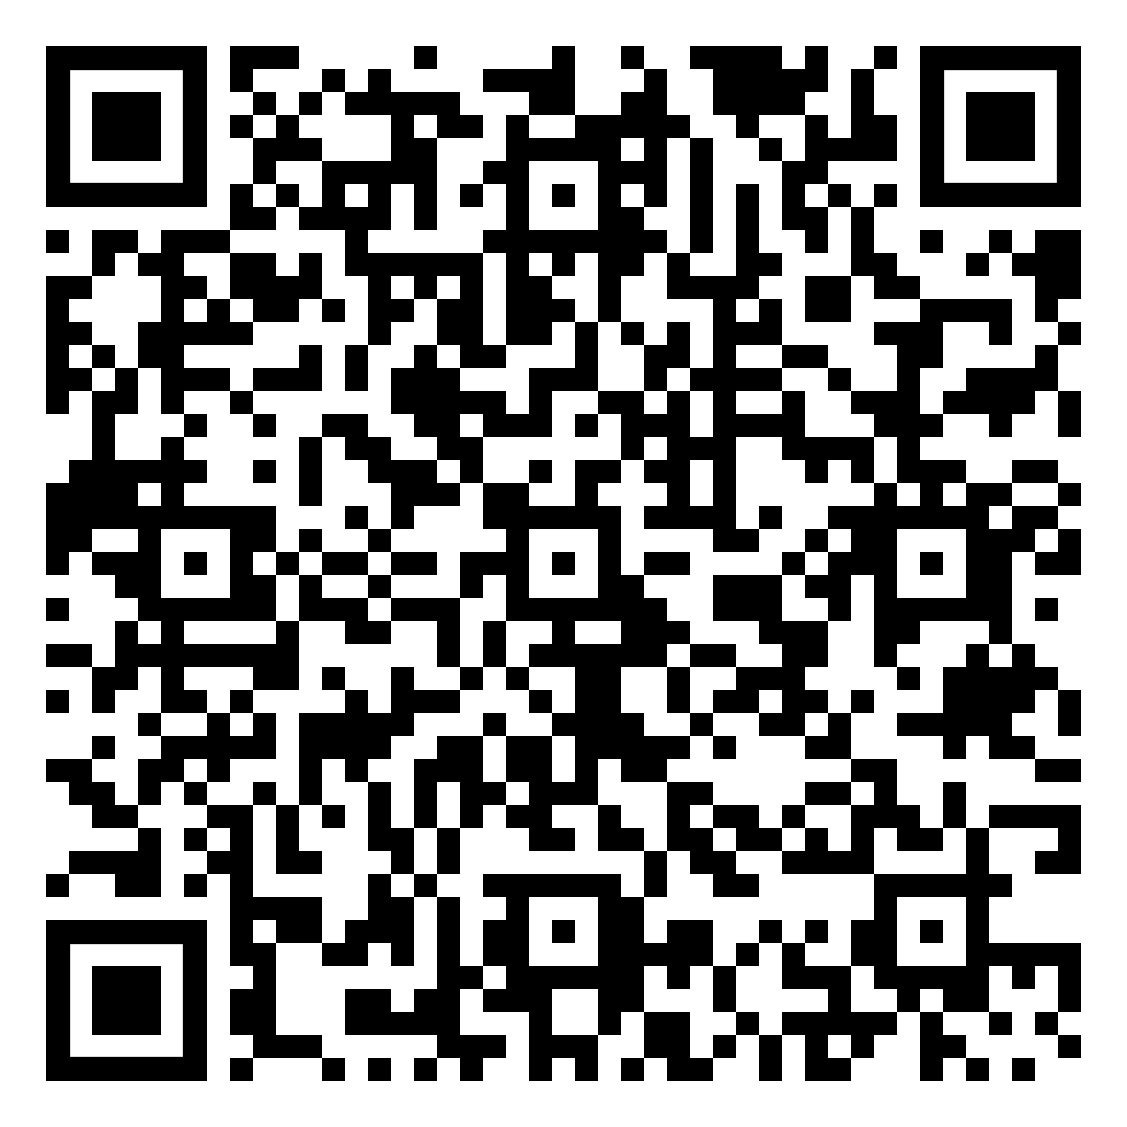
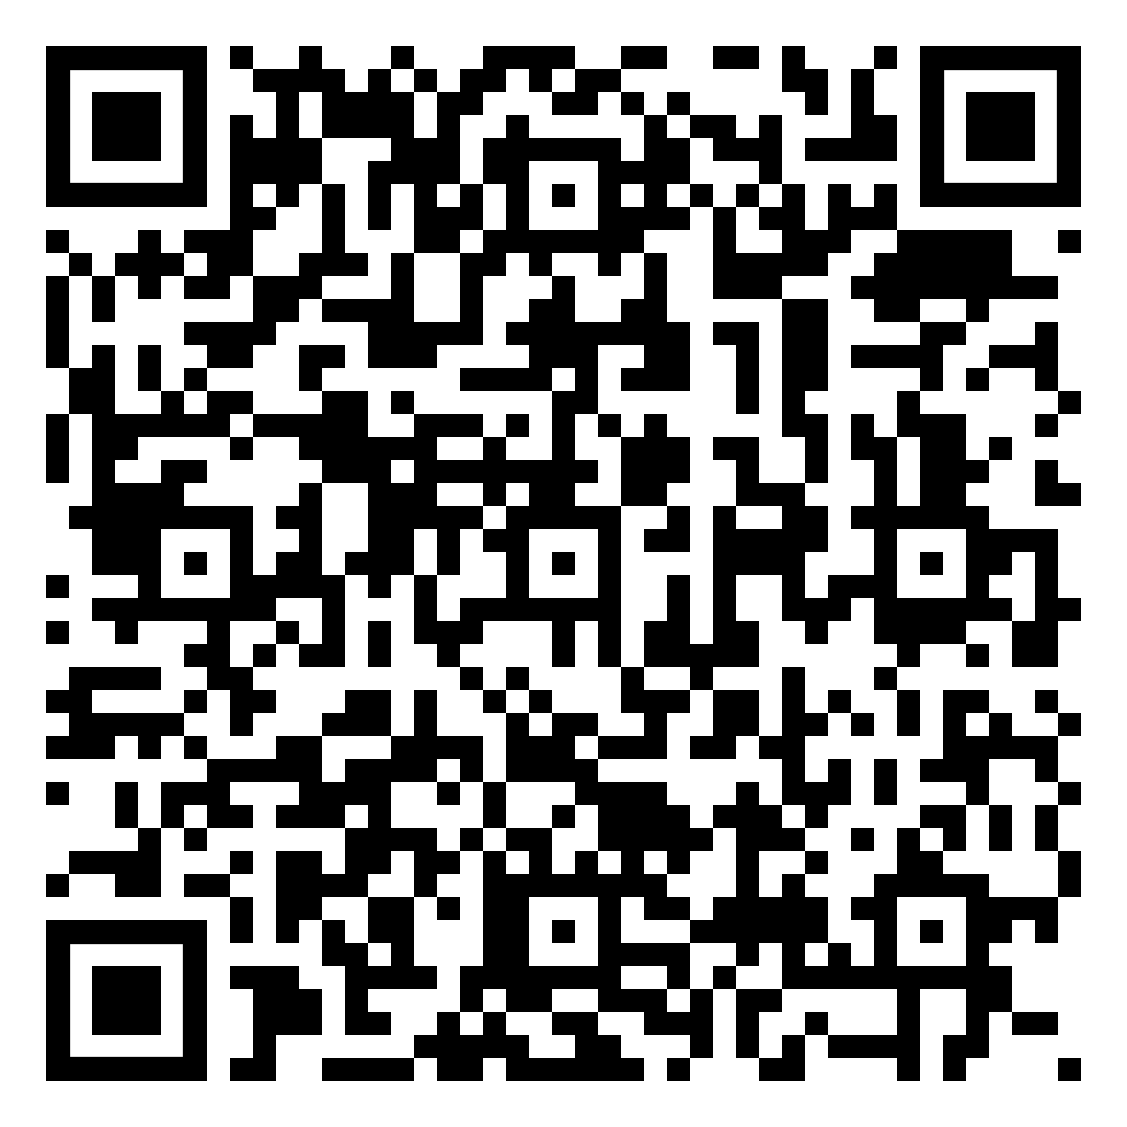
Updated QR code

diff --git a/src/app/central-beuaty-award/BestMakeUp/data.tsx b/src/app/central-beuaty-award/BestMakeUp/data.tsx
@@ -116,7 +116,7 @@ export const data = {
         id: 5,
         name: "SUQQU THE FOUNDATION",
         image: "/img/CentralBeautyAward2024/BestMakeUp/BestFoundation/5.png",
-        imageQr: "/img/CentralBeautyAward2024/BestMakeUp/BestFoundation/qr4.png",
+        imageQr: "/img/CentralBeautyAward2024/BestMakeUp/BestFoundation/qr5.png",
         link: "",
       },
     },
